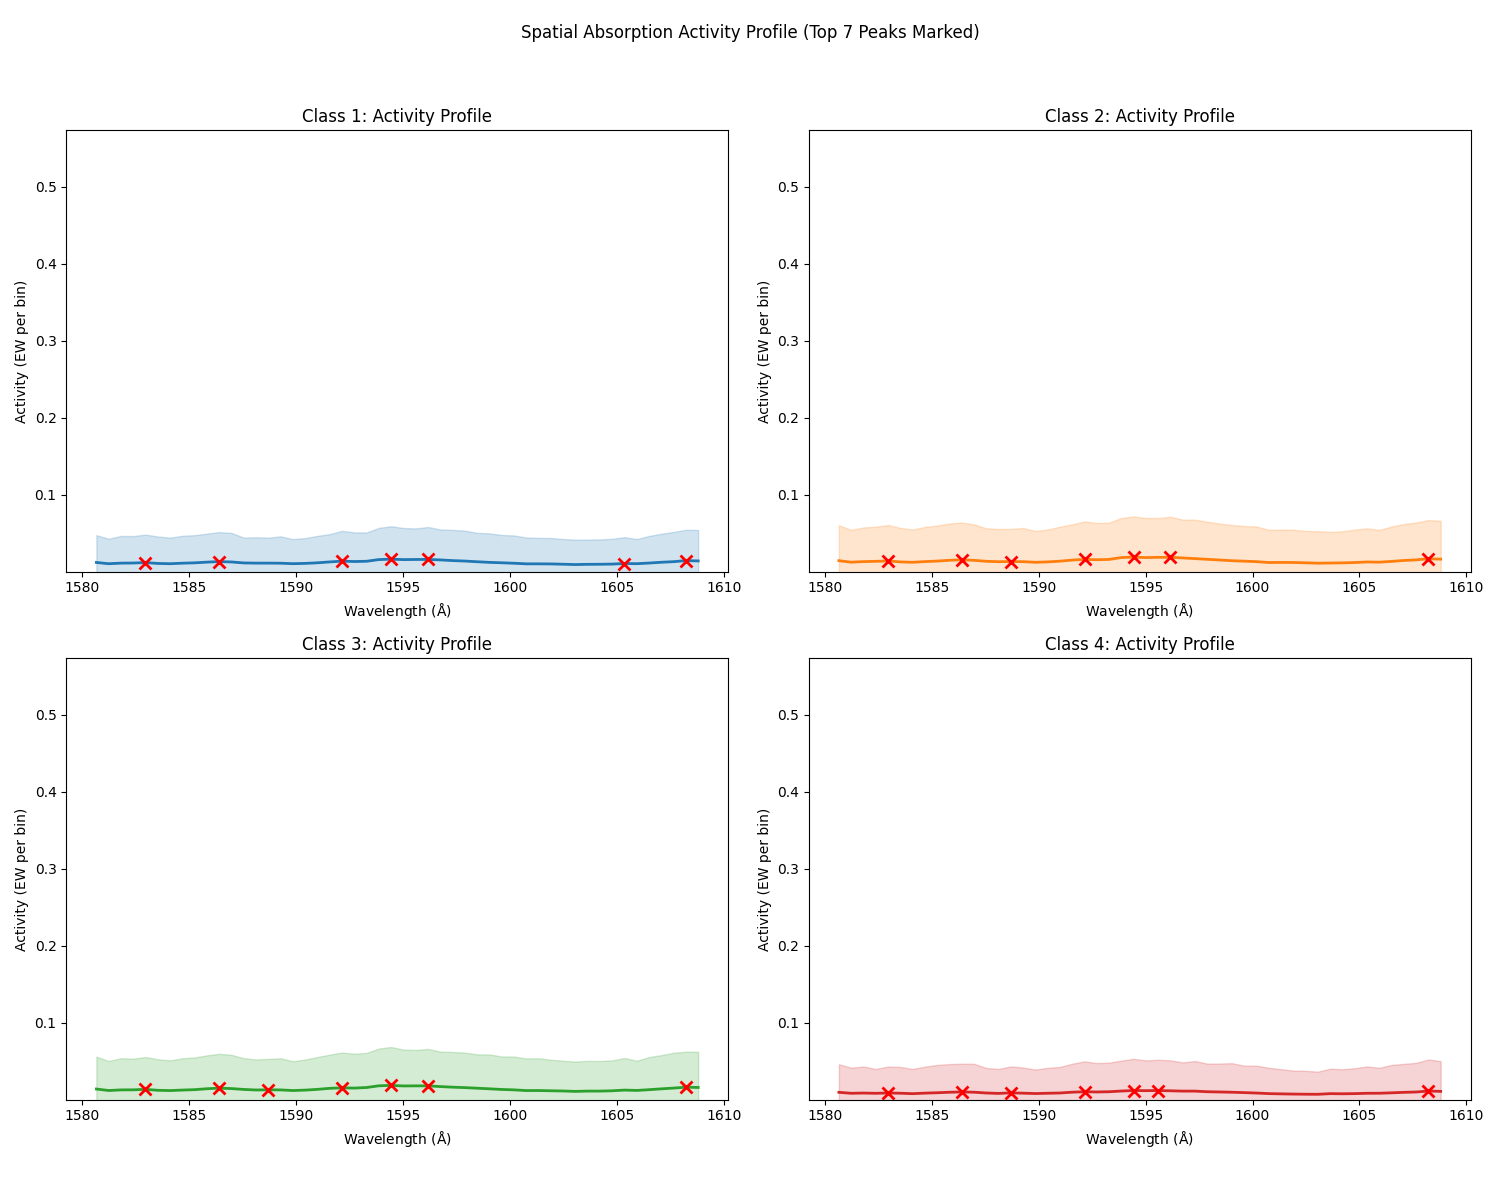
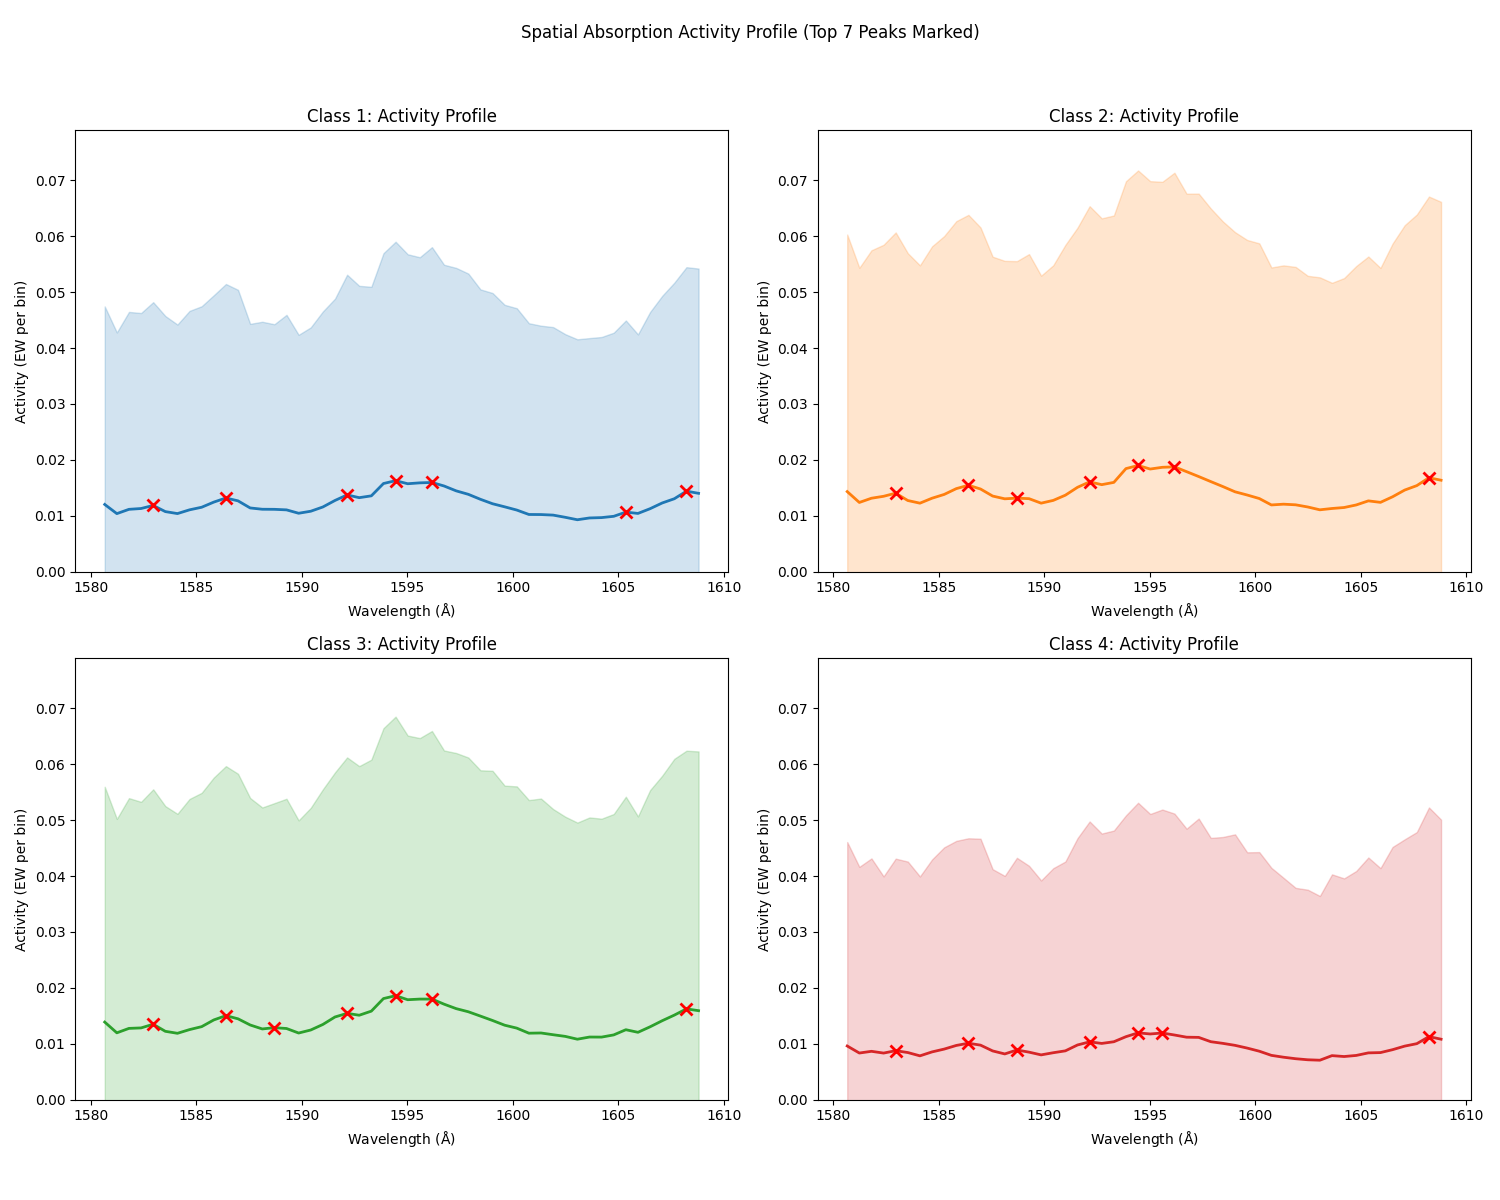
Update representative spectra Y-axis: range -0.1 to 1.1 with ticks 0.0-1.0

diff --git a/scripts/eda_sherwood.py b/scripts/eda_sherwood.py
@@ -283,7 +283,8 @@ def perform_refined_eda(base_path, output_dir="eda_plots"):
             axes_rep[i].set_title(f"Class {c} Representative Spectrum")
             axes_rep[i].set_xlabel(r"Wavelength ($\mathrm{\AA}$)")
             axes_rep[i].set_ylabel("Flux")
-            axes_rep[i].set_ylim(-0.1, 1.2)
+            axes_rep[i].set_ylim(-0.1, 1.1)
+            axes_rep[i].set_yticks([0.0, 0.2, 0.4, 0.6, 0.8, 1.0])
             axes_rep[i].grid(True, alpha=0.2)
             
             # Plot in Overlap
@@ -297,7 +298,8 @@ def perform_refined_eda(base_path, output_dir="eda_plots"):
     ax_ov.set_title("Comparative Representative Spectra (First Samples)")
     ax_ov.set_xlabel(r"Wavelength ($\mathrm{\AA}$)")
     ax_ov.set_ylabel("Flux")
-    ax_ov.set_ylim(-0.1, 1.2)
+    ax_ov.set_ylim(-0.1, 1.1)
+    ax_ov.set_yticks([0.0, 0.2, 0.4, 0.6, 0.8, 1.0])
     ax_ov.legend(loc='lower left', ncol=2)
     ax_ov.grid(True, alpha=0.2)
     plt.tight_layout()
